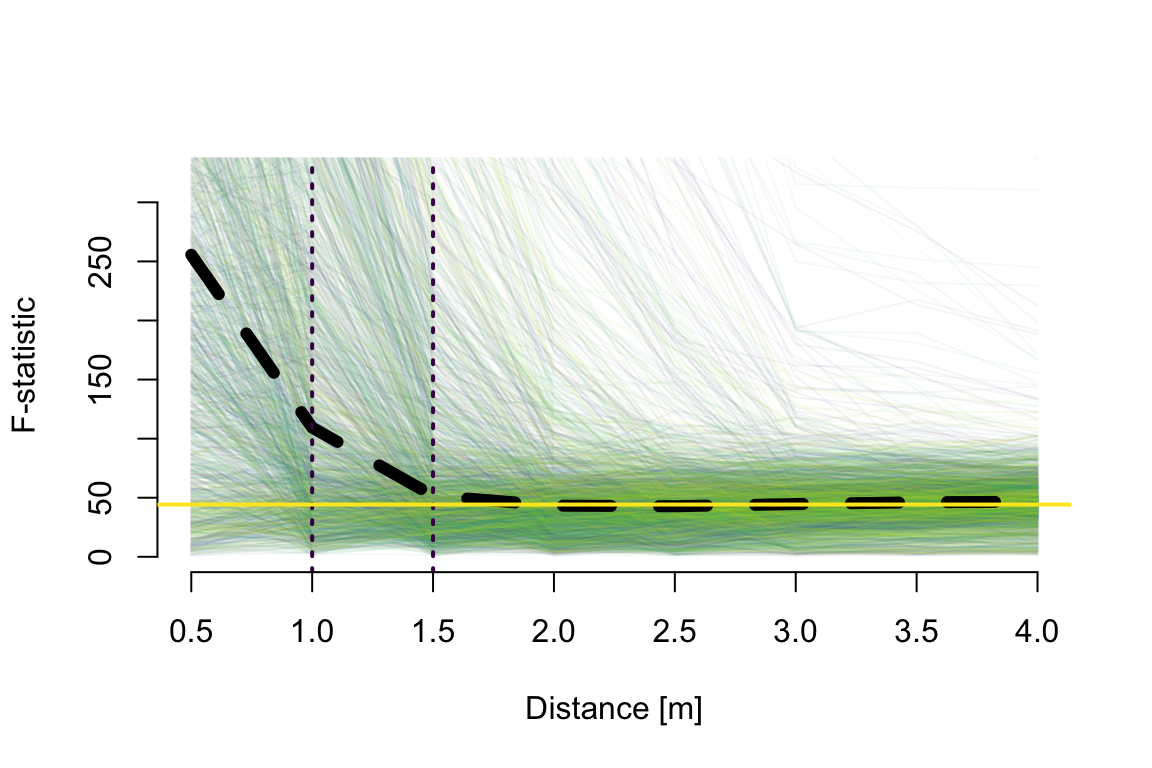
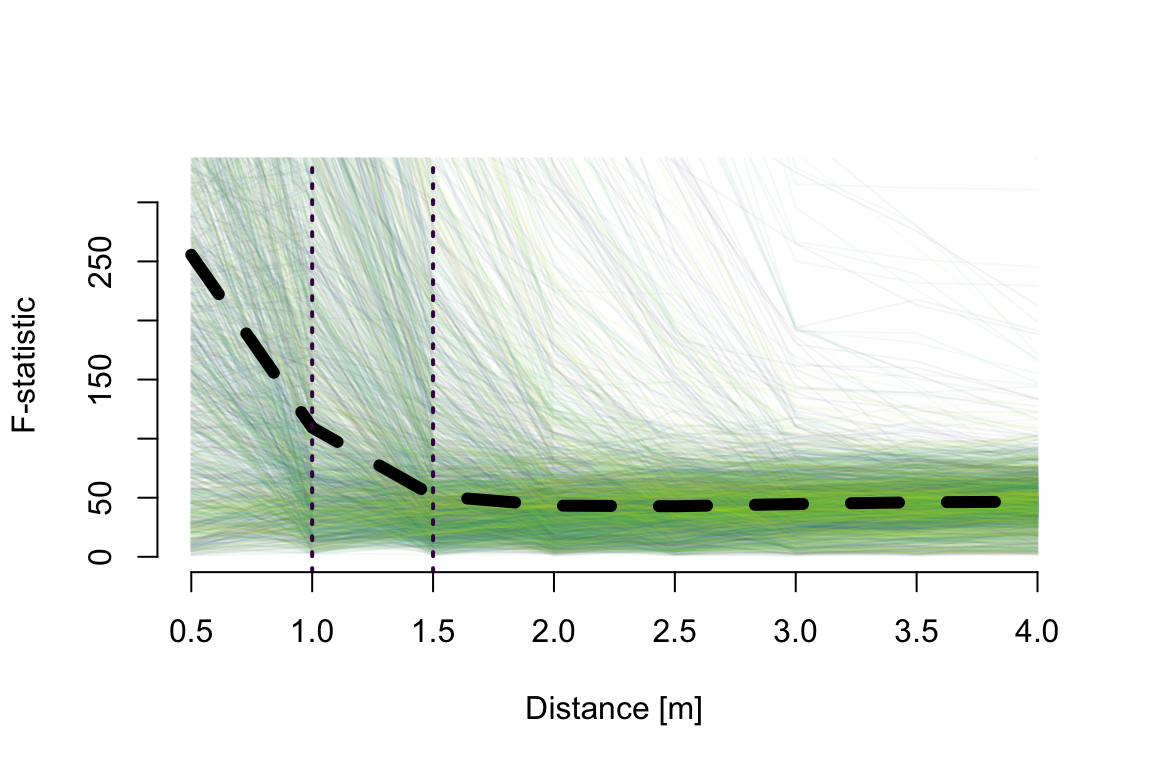
took away the y line. changed index

Changed region(s): [[0.1562, 0.6562, 0.9062, 0.6875]]

diff --git a/ESA_2020_appendix.html b/ESA_2020_appendix.html
@@ -268,21 +268,16 @@ $(document).ready(function () {
         <span class="icon-bar"></span>
         <span class="icon-bar"></span>
       </button>
-      <a class="navbar-brand" href="index.html">Andrii</a>
+      <a class="navbar-brand" href="index.html">ESA 2020</a>
     </div>
     <div id="navbar" class="navbar-collapse collapse">
       <ul class="nav navbar-nav">
         <li>
-  <a href="index.html">Home</a>
-</li>
-<li>
-  <a href="ESA_2020_appendix.html">Research</a>
+  <a href="ESA_2020_appendix.html"></a>
 </li>
       </ul>
       <ul class="nav navbar-nav navbar-right">
-        <li>
-  <a href="contacts.html">Contacts</a>
-</li>
+        
       </ul>
     </div><!--/.nav-collapse -->
   </div><!--/.container -->
@@ -330,7 +325,7 @@ $(document).ready(function () {
 <div id="model-comparison-and-infrence" class="section level5">
 <h5>Model comparison and infrence</h5>
 <p>We found that smaller interspaces lead to greater differences among groups due to density-dependence processes. Starting from a minimum distance of 0.5 m, the F-statistic diminished and eventually converged asymptotically to F-statistic values those of a base model (no NDD). The convergence point corresponded to a planting distance of ~3 meters. The correlation between average simulation outcomes from the full and base models ranged from -0.77 to 1 when the distance became greater. From interspaces greater than 3 m, the effect of density-dependence was not discernible.</p>
-<p><img src="ESA_2020_appendix_files/figure-html/unnamed-chunk-3-1.png" width="576" style="display: block; margin: auto;" /> <em>Figure 3: The magnitude of among group differences, F- statistic, as a function of distance between plants in a common garden. Black dashed line shows median value, while coloured lines correspond to posterior samples of paramet estimates model. Vertical lines indicate the actual spacing in the common garden. Yellow horizontal line shows the F-statistic values based on the observed data.</em></p>
+<p><img src="ESA_2020_appendix_files/figure-html/unnamed-chunk-3-1.png" width="576" style="display: block; margin: auto;" /> <em>Figure 3: The magnitude of among group differences, F- statistic, as a function of distance between plants in a common garden. Black dashed line shows median value, while coloured lines correspond to posterior samples of paramet estimates model. Vertical lines indicate the actual spacing in the common garden.</em></p>
 <p><img src="ESA_2020_appendix_files/figure-html/unnamed-chunk-4-1.png" width="576" style="display: block; margin: auto;" /> <em>Figure 4: Spearman correlation coefficient between predicted mean growth of a full (NDD) and base (no NDD) models. Black dashed line indicates median correlation, while coloured lines correspond to the uncertainty in model parameters.</em></p>
 </div>
 </div>
